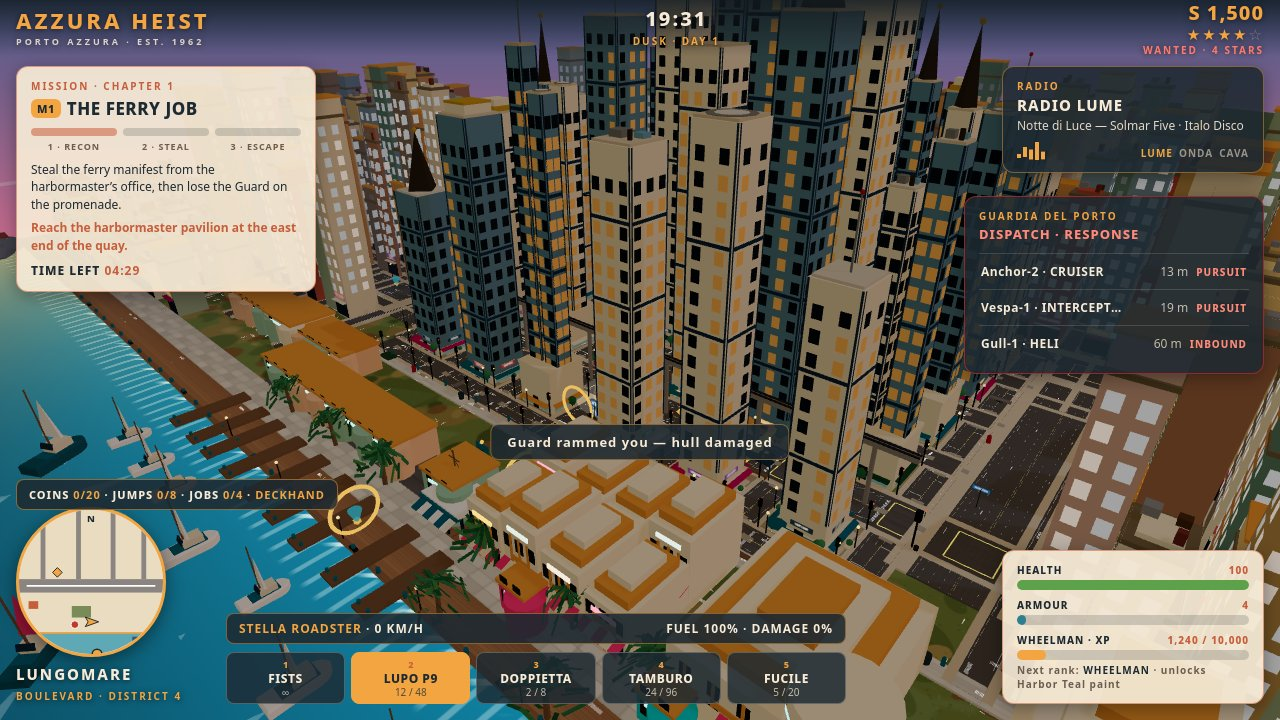
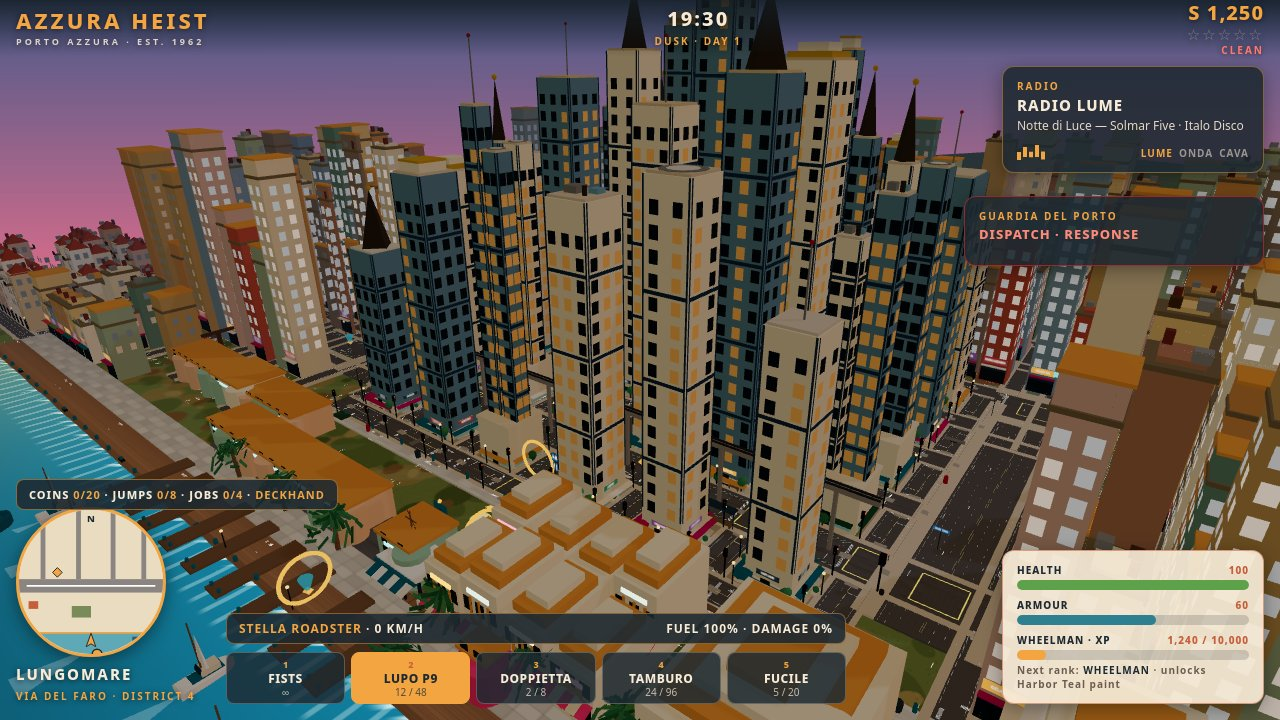
Round-9 part H: yellow markings fix + low-cam reshoot
- cbd-grid.js: avenue centre double-yellow lines removed (Xian 18:24:
  they read as yellow bands lying across the middle of the road in
  low-cam shots). Streets keep theirs.
- Low-cam POV + char-vs-car comparison retaken at dusk (18:43/18:45):
  giant yellow ribbons gone, cream facade now detailed (LIBRERIA).
- Char-vs-car at CAR_SCALE 0.35 shows ped ~3.4x car height — the
  scale mismatch Xian flagged at 18:48 (fixed in part I).

diff --git a/game/src/cbd-grid.js b/game/src/cbd-grid.js
@@ -379,9 +379,9 @@ export function buildCBDGrid(opts = {}) {
         m.box('edge', s.x + side * e, (a + b) / 2, 0.012, b - a);
         if (s.kind === 'avenue') {
           m.box('bus', s.x + side * 1.875, (a + b) / 2, 0.012, b - a);
-          // Part G: double-yellow centre line — the median is gone, so
-          // the centre gets the same painted divider the streets have.
-          m.box('yellow', s.x + side * 0.01, (a + b) / 2, 0.01, b - a);
+          // Part H (Xian 18:24): avenue centre yellow lines removed —
+          // they read as yellow bands lying across the middle of the
+          // road in low-cam shots. Streets keep theirs.
         } else m.box('yellow', s.x + side * 0.01, (a + b) / 2, 0.01, b - a);
       }
     }
@@ -416,8 +416,7 @@ export function buildCBDGrid(opts = {}) {
         m.box('edge', (a + b) / 2, s.z + side * e, b - a, 0.012);
         if (s.kind === 'avenue') {
           m.box('bus', (a + b) / 2, s.z + side * 1.875, b - a, 0.012);
-          // Part G: double-yellow centre line (median gone — see above).
-          m.box('yellow', (a + b) / 2, s.z + side * 0.01, b - a, 0.01);
+          // Part H: avenue centre yellow lines removed (see above).
         } else m.box('yellow', (a + b) / 2, s.z + side * 0.01, b - a, 0.01);
       }
     }
